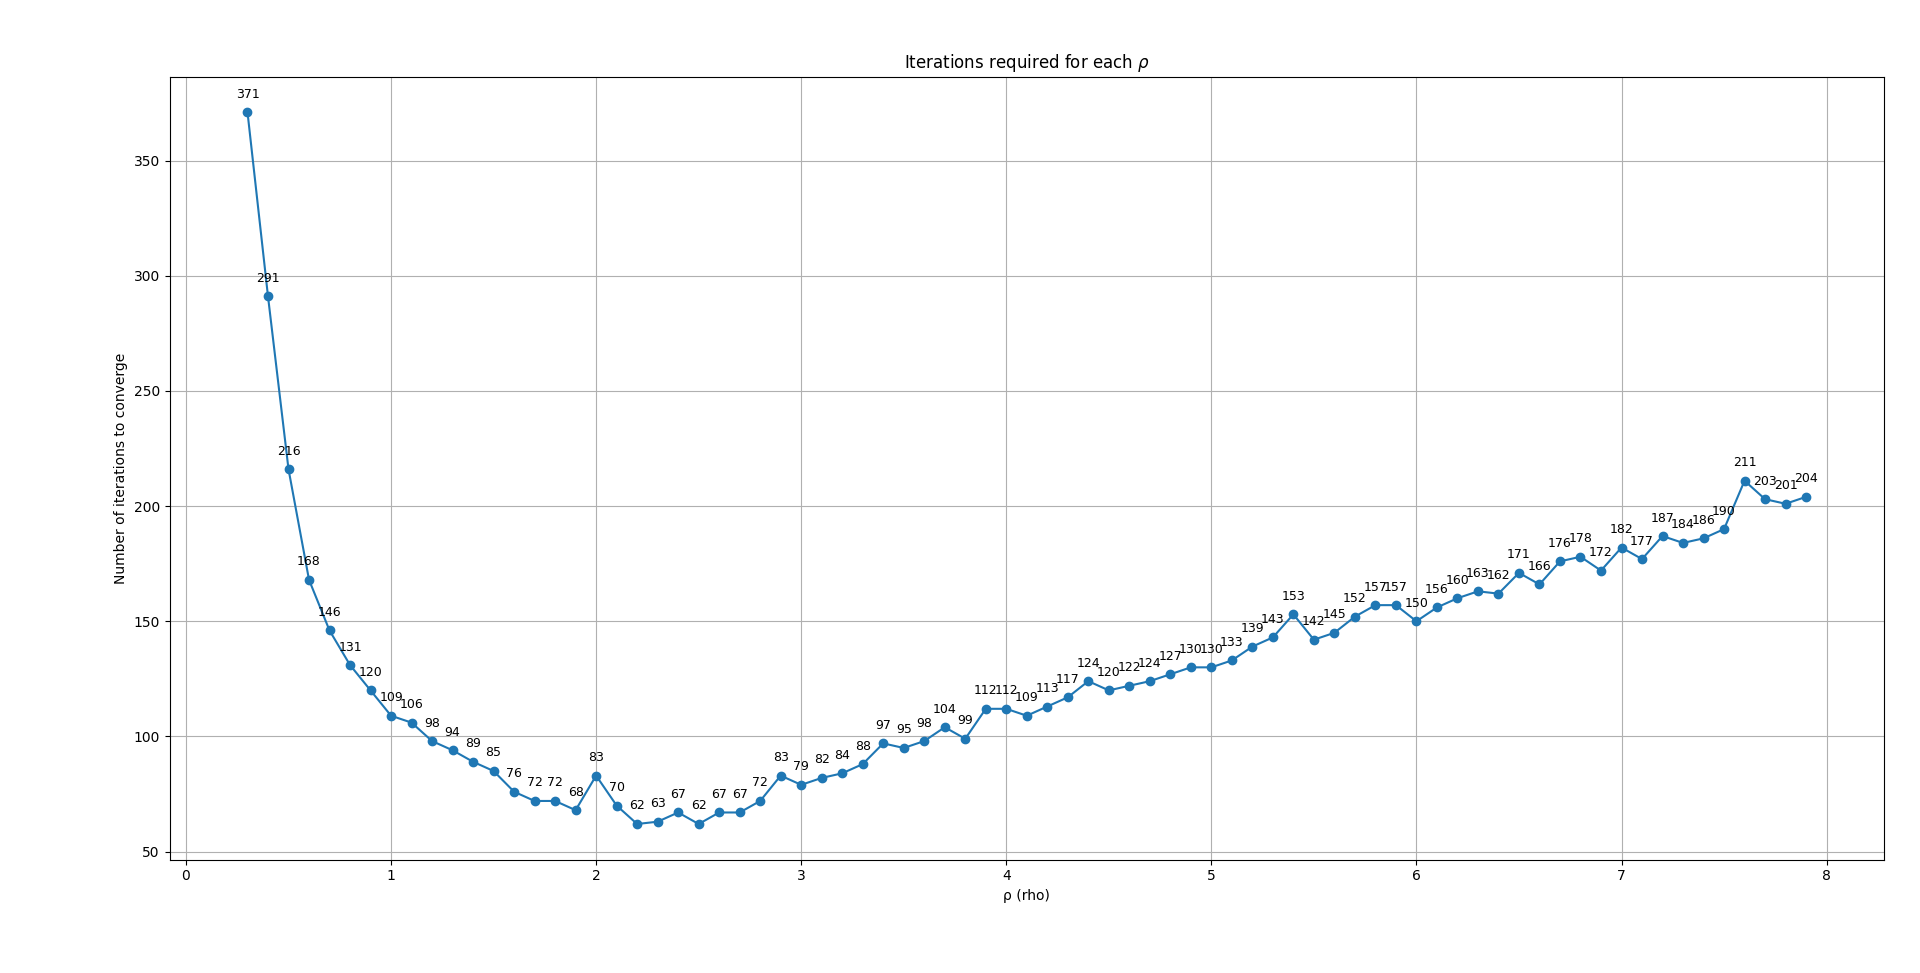
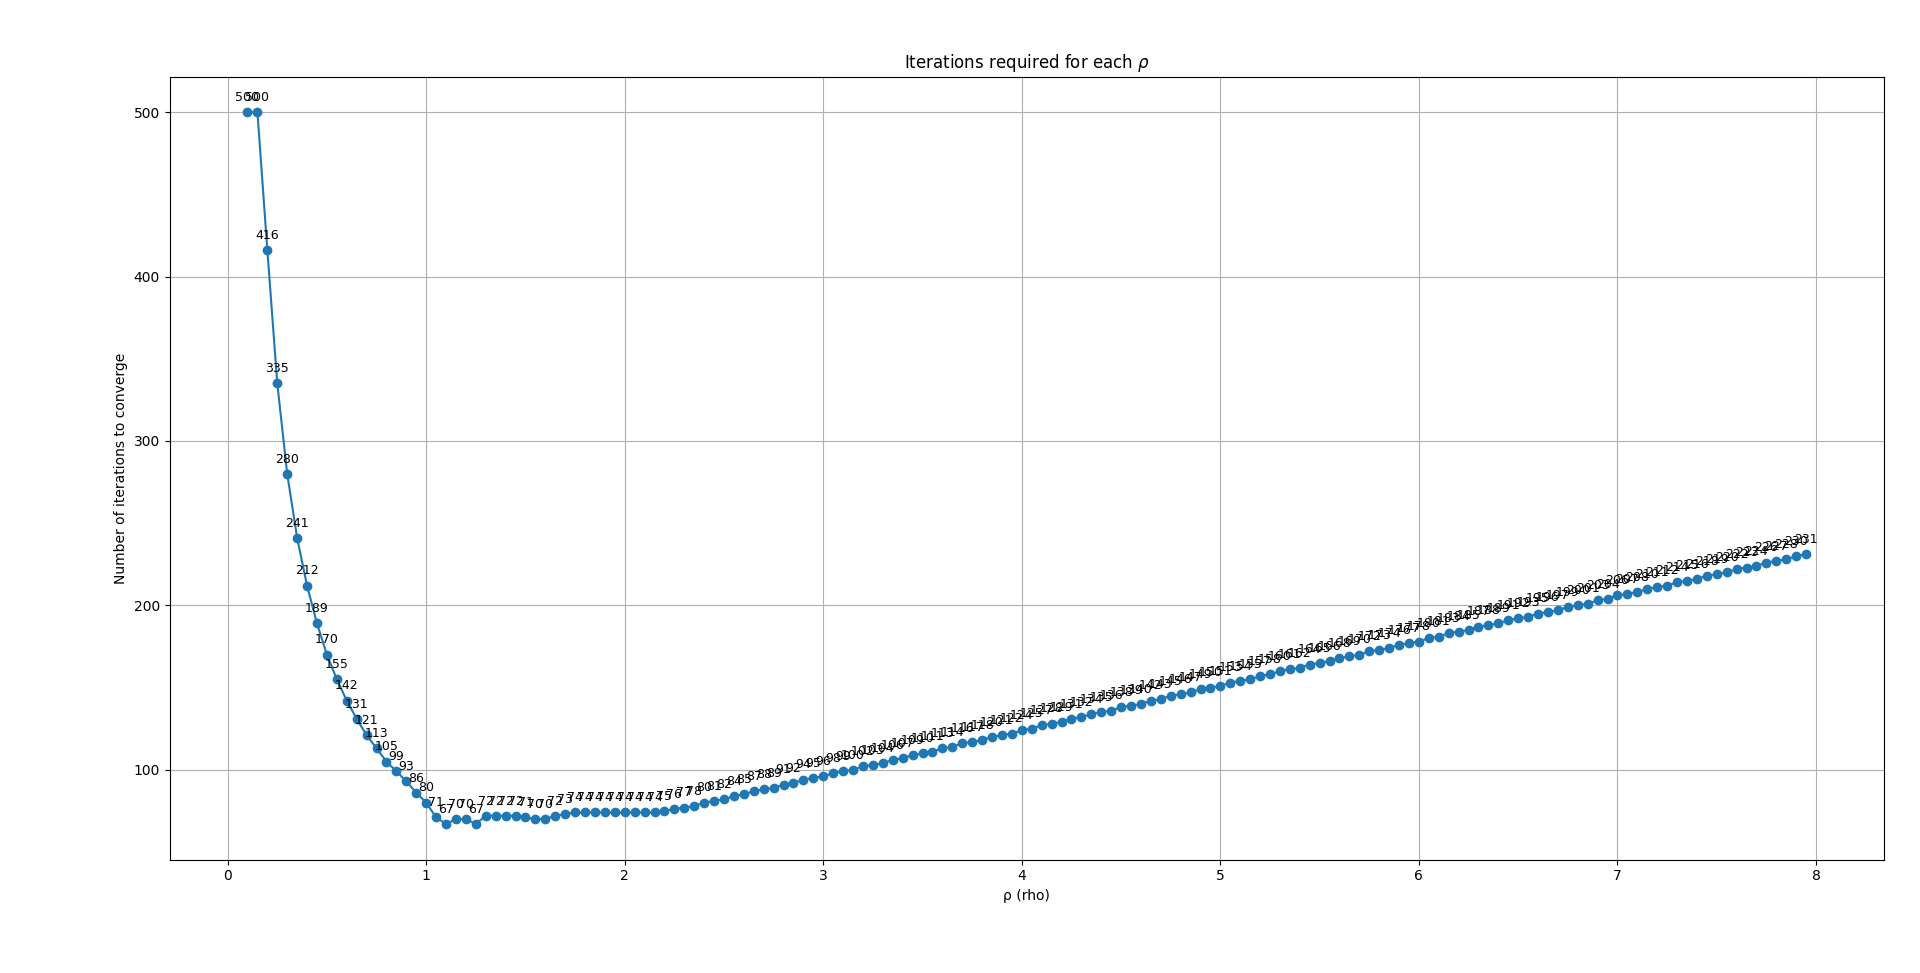
fix iteration stop condition

diff --git a/main.py b/main.py
@@ -4,7 +4,6 @@ import matplotlib.pyplot as plt
 import numpy as np
 
 # np.random.seed(42)
-np.random.seed(256)
 
 # We want to solve
 # (1/2) x^T Q x + q^T x
@@ -58,7 +57,6 @@ for idx, rho in enumerate(rho_list):
 
         primal_residuals[it] = np.linalg.norm(r)
         dual_residuals[it] = np.linalg.norm(s)
-        # print(np.linalg.norm(r), np.linalg.norm(s))
         l2_combined[it] = np.hypot(np.linalg.norm(r), np.linalg.norm(s))
 
         x_old = x_new
@@ -86,7 +84,7 @@ for label in labels:
     # plt.plot(np.log10(primal_residuals + 1e-10), color=color, label=f'{label} (Primal)')
     # plt.plot(np.log10(dual_residuals + 1e-10), color=color, linestyle='--', label=f'{label} (Dual)')
     # plt.plot(np.log10(l2_combined + 1e-10), color=color, linestyle='-.', label=f'{label} (L2 Combined)')
-    plt.plot(np.log10(np.minimum(primal_residuals, dual_residuals) + 1e-10), color=color, linestyle='--', label=f'{label} (Minimum)')
+    plt.plot(np.log10(np.maximum(primal_residuals, dual_residuals) + 1e-10), color=color, linestyle='--', label=f'{label} (Maximum)')
 
 plt.xlabel('Iteration')
 plt.ylabel('Log Residual')

diff --git a/graph.py b/graph.py
@@ -2,7 +2,7 @@ import matplotlib.pyplot as plt
 
 import numpy as np
 
-np.random.seed(420)
+# np.random.seed(42)
 
 # We want to solve
 # (1/2) x^T Q x + q^T x
@@ -11,7 +11,6 @@ np.random.seed(420)
 
 n = 10
 m = 4
-# p = 2
 
 Perturb = 0.2 * np.random.randn(n, n)
 Q = 15 * np.eye(n) + Perturb + Perturb.T
@@ -30,12 +29,11 @@ u_init = np.random.randn(m, 1)
 
 T = 500
 
-# 0.5부터 3.5까지 0.25 간격으로 rho 설정
-rho_list = np.arange(0.1, 8.0, 0.1)
+rho_list = np.arange(0.1, 8.0, 0.05)
 
 residuals_dict = {}
 
-ep = 0.1e-15
+ep = 0.1e-10
 
 for rho in rho_list:
     # init
@@ -57,9 +55,11 @@ for rho in rho_list:
         r = A.dot(x_new) + z_new - c                               # primal residual
         s = rho * A.T.dot(z_new - z_old)                           # dual residual
 
-        if np.linalg.norm(r) < ep or np.linalg.norm(s) < ep:
+        if np.linalg.norm(r) < ep and np.linalg.norm(s) < ep:
             residuals_dict[rho] = it
             break
+        elif it == T-1:
+            residuals_dict[rho] = T
 
         x_old = x_new
         z_old = z_new
